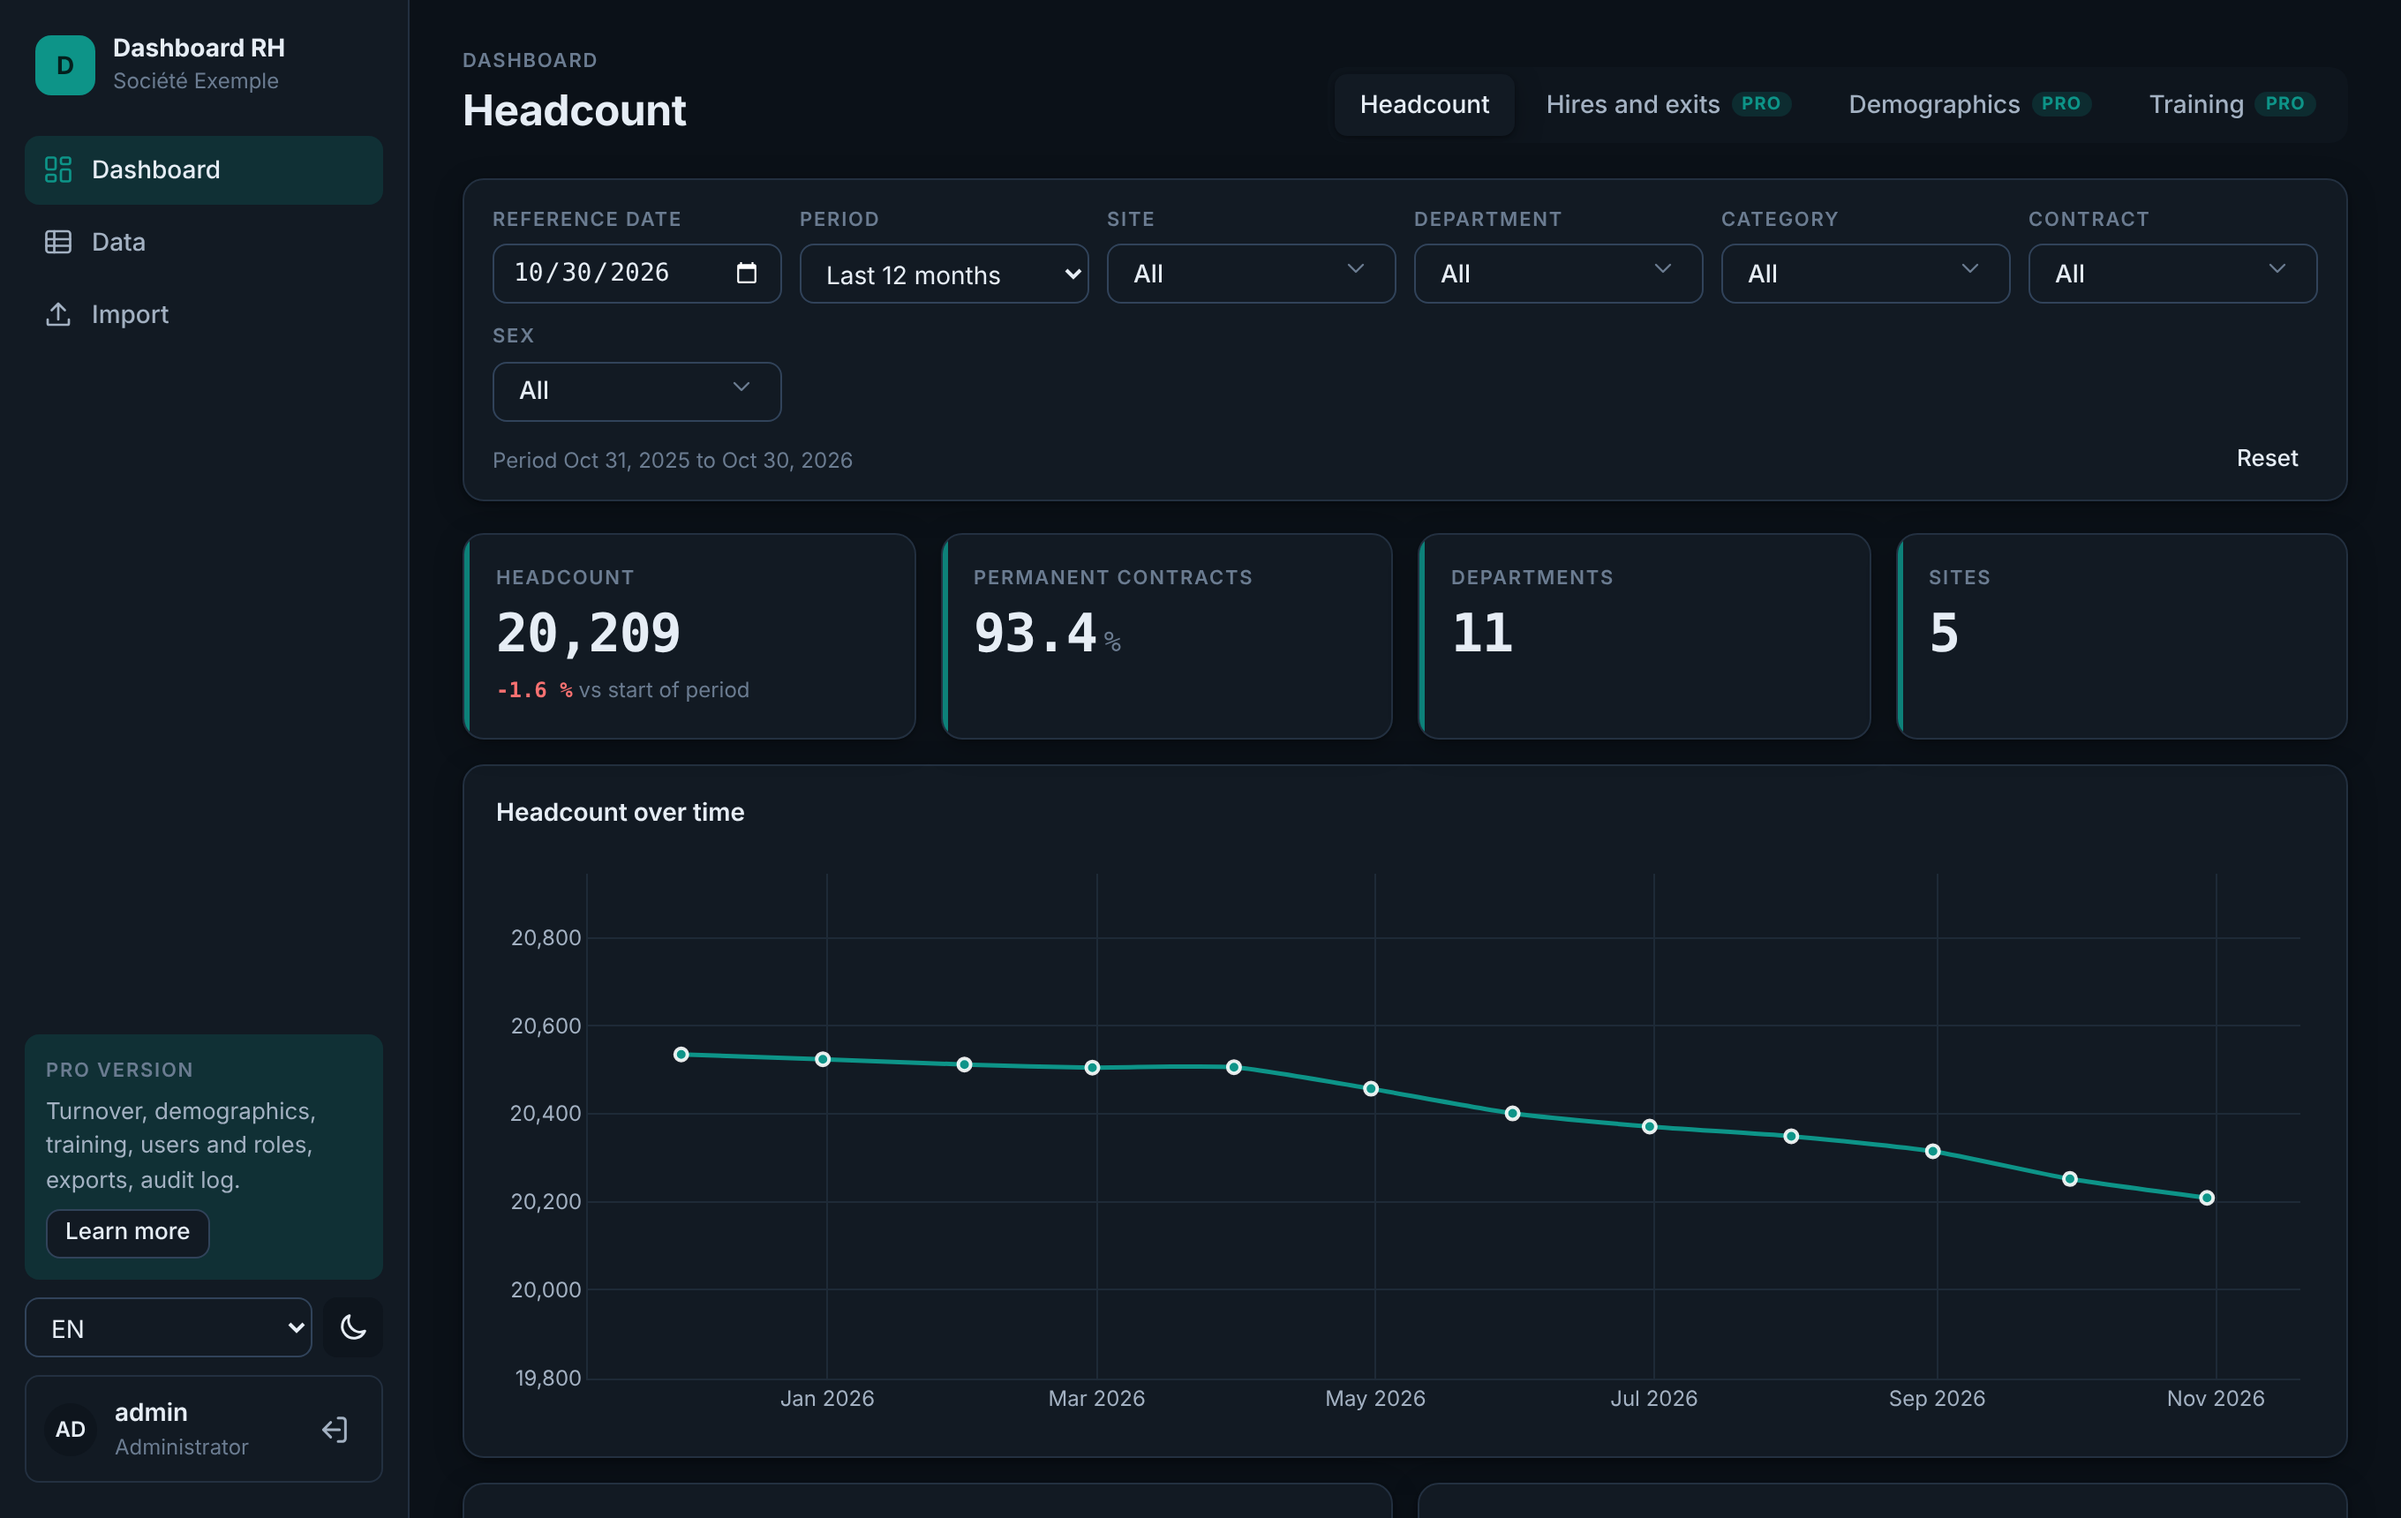
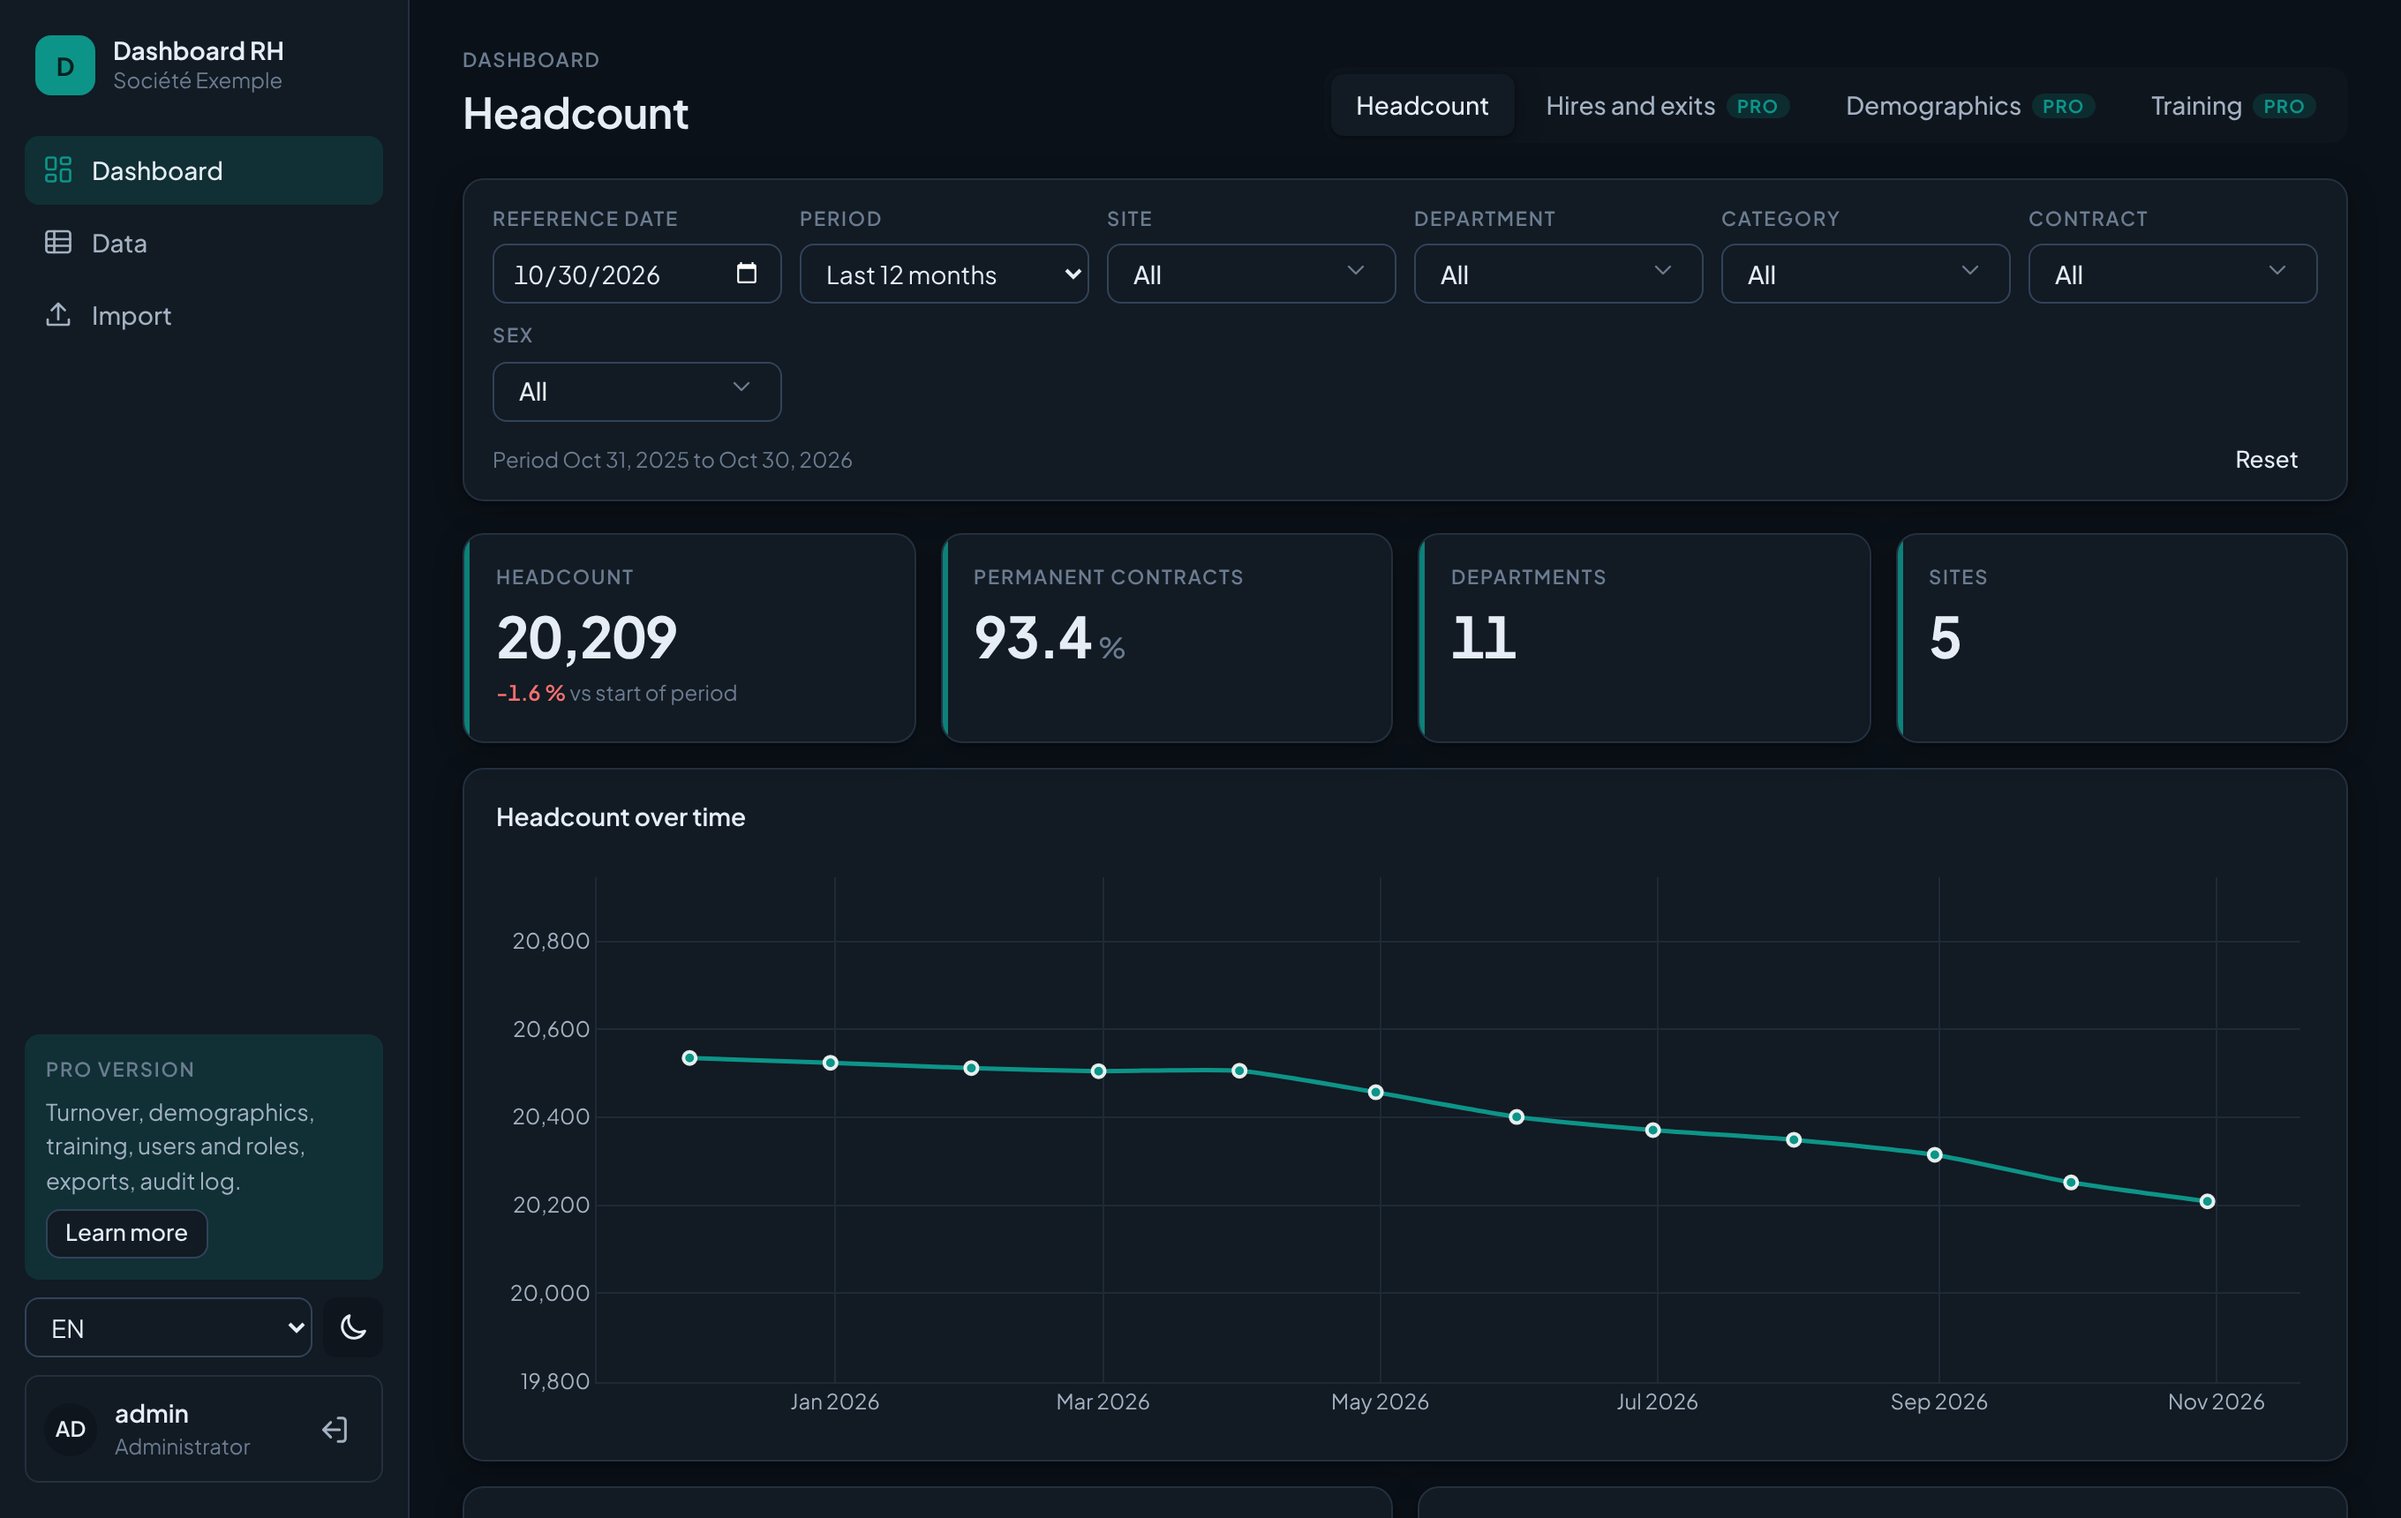
Police Plus Jakarta Sans intégrée, captures du README mises à jour
Claude-Session: https://claude.ai/code/session_01FBPTB4seqDwKdxTfcC9Qft

diff --git a/frontend/css/app.css b/frontend/css/app.css
@@ -12,7 +12,8 @@ a { color: var(--accent); }
 a.btn { text-decoration: none; color: inherit; }
 a.btn.primary { color: var(--accent-ink); }
 [hidden] { display: none !important; }
-.num { font-family: var(--mono); font-variant-numeric: tabular-nums; }
+.num { font-family: var(--font-num); font-variant-numeric: tabular-nums; }
+.delta, .grid td, .kpi .value { font-variant-numeric: tabular-nums; }
 .muted { color: var(--text-2); }
 .label {
   font-size: 11px; font-weight: 600; letter-spacing: .08em;
@@ -144,11 +145,11 @@ input[type="checkbox"] { accent-color: var(--accent); width: 15px; height: 15px;
 .kpi { padding: 16px 18px 18px; position: relative; overflow: hidden; }
 .kpi::before { content: ""; position: absolute; inset: 0 auto 0 0; width: 3px;
   background: var(--accent); opacity: .85; }
-.kpi .value { font-family: var(--mono); font-size: 30px; font-weight: 600; letter-spacing: -.02em;
+.kpi .value { font-family: var(--font-num); font-size: 32px; font-weight: 700; letter-spacing: -.025em;
   margin-top: 8px; line-height: 1.1; font-variant-numeric: tabular-nums; }
 .kpi .unit { font-size: 16px; font-weight: 500; color: var(--text-3); margin-left: 4px; }
 .kpi .meta { margin-top: 6px; font-size: 12px; color: var(--text-3); min-height: 18px; }
-.delta { font-family: var(--mono); font-weight: 600; }
+.delta { font-family: var(--font-num); font-weight: 600; }
 .delta.up { color: var(--good); }
 .delta.down { color: var(--bad); }
 
@@ -183,7 +184,7 @@ table.grid { border-collapse: separate; border-spacing: 0; width: 100%; font-siz
 .grid th:hover .pin, .grid th .pin.on { opacity: 1; }
 .grid th .pin.on { color: var(--accent); }
 .grid .col-filter { width: 100%; height: 28px; font-size: 12px; }
-.grid td.type-date, .grid td.type-number { font-family: var(--mono); font-size: 12.5px; }
+.grid td.type-date, .grid td.type-number { font-family: var(--font-num); }
 .grid td.type-number { text-align: right; }
 .grid tbody tr:hover td { background: var(--surface-2); }
 .grid tr.selected td { background: color-mix(in srgb, var(--accent) 12%, var(--surface)); }

diff --git a/frontend/css/theme.css b/frontend/css/theme.css
@@ -3,6 +3,28 @@
    --accent est injecté au démarrage depuis APP_ACCENT (config serveur) :
    ne mettez aucune couleur d'accent en dur ailleurs.
    ------------------------------------------------------------------ */
+/* Police Plus Jakarta Sans (SIL Open Font License, voir fonts/OFL-PlusJakartaSans.txt),
+   servie localement : aucun appel externe, fonctionne hors ligne. */
+@font-face {
+  font-family: "Plus Jakarta Sans";
+  font-style: normal;
+  font-weight: 200 800;
+  font-display: swap;
+  src: url("/fonts/plus-jakarta-sans-latin-wght-normal.woff2") format("woff2");
+  unicode-range: U+0000-00FF, U+0131, U+0152-0153, U+02BB-02BC, U+02C6, U+02DA, U+02DC, U+0304,
+    U+0308, U+0329, U+2000-206F, U+20AC, U+2122, U+2191, U+2193, U+2212, U+2215, U+FEFF, U+FFFD;
+}
+@font-face {
+  font-family: "Plus Jakarta Sans";
+  font-style: normal;
+  font-weight: 200 800;
+  font-display: swap;
+  src: url("/fonts/plus-jakarta-sans-latin-ext-wght-normal.woff2") format("woff2");
+  unicode-range: U+0100-02BA, U+02BD-02C5, U+02C7-02CC, U+02CE-02D7, U+02DD-02FF, U+0304, U+0308,
+    U+0329, U+1D00-1DBF, U+1E00-1E9F, U+1EF2-1EFF, U+2020, U+20A0-20AB, U+20AD-20C0, U+2113,
+    U+2C60-2C7F, U+A720-A7FF;
+}
+
 :root {
   --accent: #0D9488;
   --accent-ink: #FFFFFF;
@@ -24,8 +46,9 @@
   --bad: #DC2626;
   --warn: #D97706;
 
-  --font: Inter, system-ui, -apple-system, "Segoe UI", Roboto, "Helvetica Neue", Arial, sans-serif;
-  --mono: "JetBrains Mono", ui-monospace, "SF Mono", "Cascadia Mono", Consolas, monospace;
+  --font: "Plus Jakarta Sans", system-ui, -apple-system, "Segoe UI", Roboto, Arial, sans-serif;
+  /* Chiffres : même police, en chasse fixe (tabular-nums) pour rester alignés. */
+  --font-num: var(--font);
 
   --radius: 12px;
   --radius-sm: 8px;

diff --git a/frontend/js/components.js b/frontend/js/components.js
@@ -68,7 +68,8 @@ export function plot(node, figure) {
   const text = cssVar("--text-2");
   const grid = cssVar("--grid");
   const layout = structuredClone(figure.layout || {});
-  layout.font = { ...(layout.font || {}), color: text };
+  const family = cssVar("--font");
+  layout.font = { ...(layout.font || {}), family, color: text };
   layout.separators = app.lang === "fr" ? ", " : ".,";
   for (const key of Object.keys(layout)) {
     if (/^[xy]axis\d*$/.test(key)) {
@@ -79,7 +80,7 @@ export function plot(node, figure) {
   if (!layout.yaxis) layout.yaxis = { gridcolor: grid };
   layout.legend = { ...(layout.legend || {}), font: { color: text } };
   layout.hoverlabel = { ...(layout.hoverlabel || {}), bgcolor: cssVar("--surface"),
-    bordercolor: cssVar("--border-strong"), font: { color: cssVar("--text") } };
+    bordercolor: cssVar("--border-strong"), font: { family, color: cssVar("--text") } };
   layout.autosize = true;
   window.Plotly.react(node, figure.data, layout, {
     displaylogo: false,

diff --git a/frontend/js/core.js b/frontend/js/core.js
@@ -101,8 +101,9 @@ const locale = () => (app.lang === "fr" ? "fr-FR" : "en-US");
 
 export function fmtNumber(value, digits = 0) {
   if (value === null || value === undefined) return t("common.no_value");
+  // Espace insécable normale plutôt que l'espace fine (U+202F), trop étroite à l'écran.
   return new Intl.NumberFormat(locale(), { maximumFractionDigits: digits,
-    minimumFractionDigits: digits }).format(value);
+    minimumFractionDigits: digits }).format(value).replace(/\u202f/g, "\u00a0");
 }
 
 export function fmtDate(iso, opts = { day: "2-digit", month: "short", year: "numeric" }) {

diff --git a/frontend/index.html b/frontend/index.html
@@ -5,6 +5,7 @@
   <meta name="viewport" content="width=device-width, initial-scale=1">
   <title>Dashboard RH</title>
   <link rel="icon" href="/favicon.svg" type="image/svg+xml">
+  <link rel="preload" href="/fonts/plus-jakarta-sans-latin-wght-normal.woff2" as="font" type="font/woff2" crossorigin>
   <link rel="stylesheet" href="/css/theme.css">
   <link rel="stylesheet" href="/css/app.css">
   <script src="/vendor/plotly.min.js" defer></script>

diff --git a/frontend/login.html b/frontend/login.html
@@ -5,6 +5,7 @@
   <meta name="viewport" content="width=device-width, initial-scale=1">
   <title>Connexion</title>
   <link rel="icon" href="/favicon.svg" type="image/svg+xml">
+  <link rel="preload" href="/fonts/plus-jakarta-sans-latin-wght-normal.woff2" as="font" type="font/woff2" crossorigin>
   <link rel="stylesheet" href="/css/theme.css">
   <link rel="stylesheet" href="/css/app.css">
 </head>

diff --git a/app/charts/builders.py b/app/charts/builders.py
@@ -15,7 +15,7 @@ import plotly.io as pio
 
 NEUTRAL = "#94A3B8"
 SECONDARY = ("#6366F1", "#F59E0B", "#EC4899", "#10B981", "#8B5CF6", "#64748B")
-FONT = "Inter, system-ui, -apple-system, Segoe UI, Roboto, sans-serif"
+FONT = "Plus Jakarta Sans, system-ui, -apple-system, Segoe UI, Roboto, sans-serif"
 
 
 def palette(accent: str) -> list[str]:

diff --git a/CHANGELOG.md b/CHANGELOG.md
@@ -13,6 +13,6 @@ First public release of the Lite edition.
   contract, sex)
 - Data table with server-side search, sorting and pagination
 - Single admin account, scrypt password hashing, JWT sessions, login rate limiting, strict CSP
-- Light and dark themes, French and English
+- Light and dark themes, French and English, bundled Plus Jakarta Sans font (works offline)
 - Fictional data generator (50, 1,000 and 20,000 employees)
 - Docker image, GitHub Actions CI, pytest suite

diff --git a/README.md b/README.md
@@ -118,5 +118,6 @@ ruff check .
 
 ## License
 
-[MIT](LICENSE) — free for personal and commercial use.
+[MIT](LICENSE) — free for personal and commercial use. The bundled Plus Jakarta Sans font is
+licensed under the SIL Open Font License 1.1 (`frontend/fonts/OFL-PlusJakartaSans.txt`).
 The Pro version is distributed under a separate commercial licence.

diff --git a/README.fr.md b/README.fr.md
@@ -107,5 +107,6 @@ ruff check .
 
 ## Licence
 
-[MIT](LICENSE) : usage libre, personnel et commercial.
+[MIT](LICENSE) : usage libre, personnel et commercial. La police Plus Jakarta Sans incluse est
+sous licence SIL Open Font License 1.1 (`frontend/fonts/OFL-PlusJakartaSans.txt`).
 La version Pro est distribuée sous une licence commerciale distincte.
